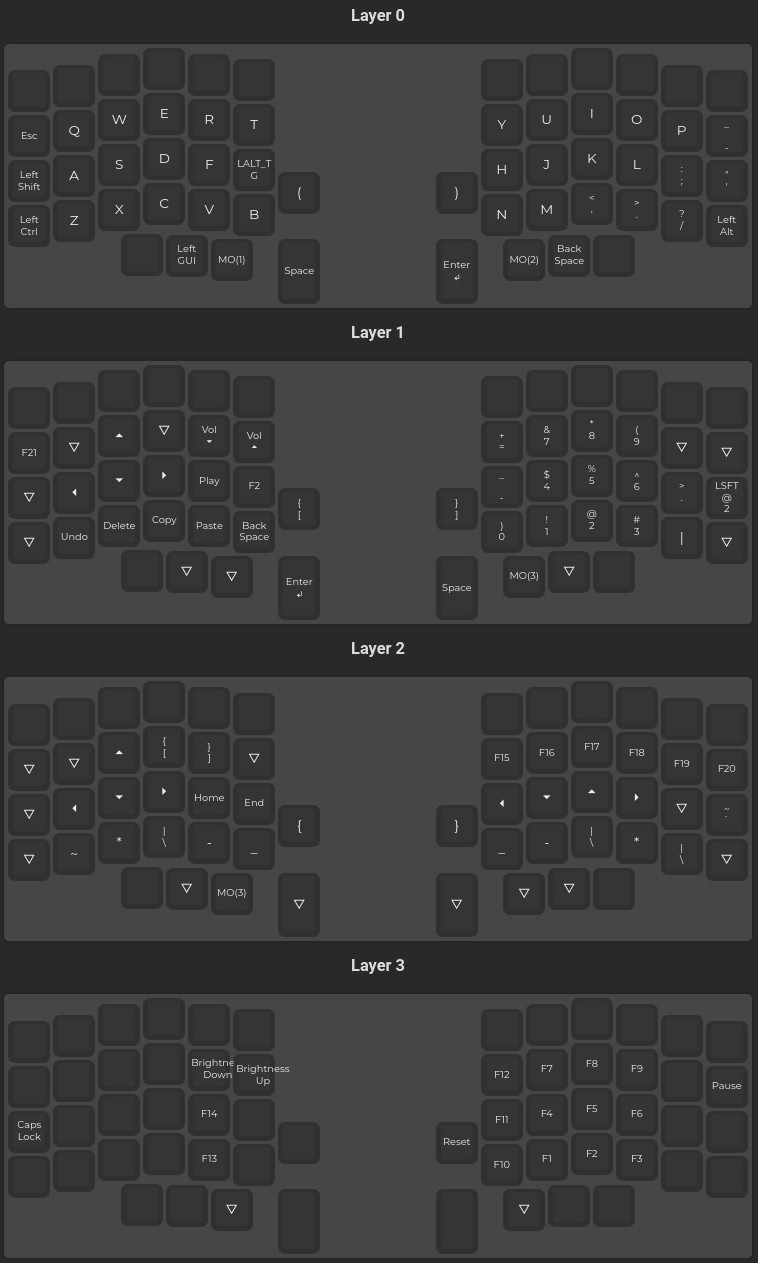
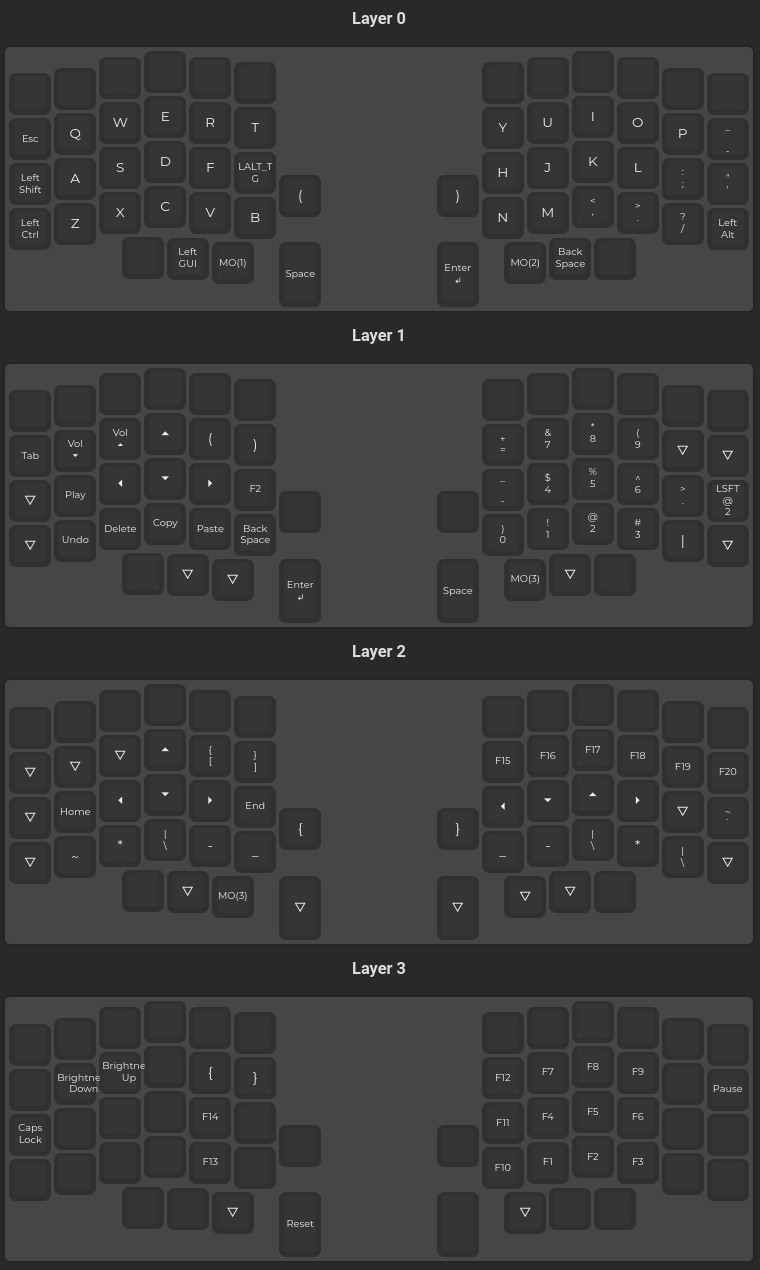
move parentheses, brackets and curly brackets | moved arrow keys

diff --git a/keymap.c b/keymap.c
@@ -16,7 +16,7 @@ const uint16_t PROGMEM keymaps[][MATRIX_ROWS][MATRIX_COLS] = {
  * |ESC   |   Q  |   W  |   E  |   R  |   T  |                    |   Y  |   U  |   I  |   O  |   P  |  -   |
  * |------+------+------+------+------+------|                    |------+------+------+------+------+------|
  * |LShift|   A  |   S  |   D  |   F  |   G  |-------.    ,-------|   H  |   J  |   K  |   L  |   ;  |  '   |
- * |------+------+------+------+------+------|   (   |    |    )  |------+------+------+------+------+------|
+ * |------+------+------+------+------+------|       |    |       |------+------+------+------+------+------|
  * |LCTL  |   Z  |   X  |   C  |   V  |   B  |-------|    |-------|   N  |   M  |   ,  |   .  |   /  | Alt  |
  * `-----------------------------------------/       /     \      \-----------------------------------------'
  *                   |      | LGUI |LOWER | /Space  /       \Enter \  |RAISE |BackSP|      |
@@ -25,20 +25,20 @@ const uint16_t PROGMEM keymaps[][MATRIX_ROWS][MATRIX_COLS] = {
  */
 
  [_QWERTY] = LAYOUT(
-  _______, _______, _______, _______, _______,  _______,                           _______, _______, _______, _______, _______, _______,
+  XXXXXXX, XXXXXXX, XXXXXXX, XXXXXXX, XXXXXXX,      XXXXXXX,                       XXXXXXX, XXXXXXX, XXXXXXX, XXXXXXX, XXXXXXX, XXXXXXX,
   KC_ESC,     KC_Q,    KC_W,    KC_E,    KC_R,         KC_T,                          KC_Y,    KC_U,    KC_I,    KC_O,    KC_P, KC_MINS,
   KC_LSFT,    KC_A,    KC_S,    KC_D,    KC_F, LALT_T(KC_G),                          KC_H,    KC_J,    KC_K,    KC_L, KC_SCLN, KC_QUOT,
-  KC_LCTL,    KC_Z,    KC_X,    KC_C,    KC_V,         KC_B, KC_LPRN,     KC_RPRN,    KC_N,    KC_M, KC_COMM,  KC_DOT, KC_SLSH, KC_LALT,
-                            _______,  KC_LGUI,       MO(_L),  KC_SPC,      KC_ENT,  MO(_R), KC_BSPC, _______ 
+  KC_LCTL,    KC_Z,    KC_X,    KC_C,    KC_V,         KC_B, XXXXXXX,     XXXXXXX,    KC_N,    KC_M, KC_COMM,  KC_DOT, KC_SLSH, KC_LALT,
+                             XXXXXXX,  KC_LGUI,       MO(_L),  KC_SPC,      KC_ENT,  MO(_R), KC_BSPC, XXXXXXX 
 ),
 
 /* _L | lower
  * ,-----------------------------------------.                    ,-----------------------------------------.
  * |      |      |      |      |      |      |                    |      |      |      |      |      |      |
  * |------+------+------+------+------+------|                    |------+------+------+------+------+------|
- * | Tab  |      |  UP  |      | vol- | vol+ |                    |  +=  |  6   |  8   |  9   |      |      |
+ * | Tab  | vol- | vol+ |  up  |  (   |  )   |                    |  +=  |  6   |  8   |  9   |      |      |
  * |------+------+------+------+------+------|                    |------+------+------+------+------+------|
- * |      | left | down | right| play | F2   |-------.    ,-------|   -  |  4   |  5   |  6   |  .   |  "   |
+ * |      | play | left | down | right| F2   |-------.    ,-------|   -  |  4   |  5   |  6   |  .   |  "   |
  * |------+------+------+------+------+------|   [   |    |    ]  |------+------+------+------+------+------|
  * |      | undo | del  | copy | paste| bksp |-------|    |-------|   0  |  1   |  2   |  3   | pipe |      |
  * `-----------------------------------------/       /     \      \-----------------------------------------'
@@ -49,20 +49,20 @@ const uint16_t PROGMEM keymaps[][MATRIX_ROWS][MATRIX_COLS] = {
  */
 
 [_L] = LAYOUT(
-  _______, _______, _______, _______, _______, _______,                       _______, _______, _______, _______, _______,    _______,
-   KC_TAB, _______,   KC_UP, _______, KC_VOLD, KC_VOLU,                        KC_EQL,    KC_7,    KC_8,    KC_9, _______,    _______,
-  _______, KC_LEFT, KC_DOWN, KC_RGHT, KC_MPLY,   KC_F2,                       KC_MINS,    KC_4,    KC_5,    KC_6,  KC_DOT, LSFT(KC_2),
-  _______, KC_UNDO,  KC_DEL, KC_COPY, KC_PSTE, KC_BSPC, KC_LBRC,    KC_RBRC, KC_0    ,    KC_1,    KC_2,    KC_3, KC_PIPE,    _______, 
-                             _______, _______, _______,  KC_ENT,     KC_SPC,  _______, _______, _______ 
+  XXXXXXX, XXXXXXX, XXXXXXX, XXXXXXX, XXXXXXX, XXXXXXX,                       XXXXXXX, XXXXXXX, XXXXXXX, XXXXXXX, XXXXXXX,    XXXXXXX,
+   KC_TAB, KC_VOLD, KC_VOLU,   KC_UP, KC_LPRN, KC_RPRN,                        KC_EQL,    KC_7,    KC_8,    KC_9, _______,    _______,
+  _______, KC_MPLY, KC_LEFT, KC_DOWN, KC_RGHT,   KC_F2,                       KC_MINS,    KC_4,    KC_5,    KC_6,  KC_DOT, LSFT(KC_2),
+  _______, KC_UNDO,  KC_DEL, KC_COPY, KC_PSTE, KC_BSPC, XXXXXXX,     XXXXXXX,    KC_0,    KC_1,    KC_2,    KC_3, KC_PIPE,    _______, 
+                             XXXXXXX, _______, _______,  KC_ENT,      KC_SPC, _______, _______, XXXXXXX 
 ),
 
 /* _R | raise
  * ,-----------------------------------------.                    ,-----------------------------------------.
  * |      |      |      |      |      |      |                    |      |      |      |      |      |      |
  * |------+------+------+------+------+------|                    |------+------+------+------+------+------|
- * |      |      |  up  | [ {  | ] }  |      |                    |  F15 | F16  | F17  | F18  | F19  | F20  |
+ * |      |      |      | up   |  [   |  ]   |                    |  F15 | F16  | F17  | F18  | F19  | F20  |
  * |------+------+------+------+------+------|                    |------+------+------+------+------+------|
- * |      | left | down | right| home | end  |-------.    ,-------| left | down |  up  | right|      | grave|
+ * |      | home | left | down | right| end  |-------.    ,-------| left | down |  up  | right|      | grave|
  * |------+------+------+------+------+------|   {   |    |    }  |------+------+------+------+------+------|
  * |      |  ~   |  *   |  #   |  -   |  _   |-------|    |-------|   _  |   -  |  #   |  *   |  \   |      |    
  * `-----------------------------------------/       /     \      \-----------------------------------------'
@@ -74,24 +74,24 @@ const uint16_t PROGMEM keymaps[][MATRIX_ROWS][MATRIX_COLS] = {
  */
 
 [_R] = LAYOUT(
-  _______, _______, _______, _______, _______, _______,                       _______, _______, _______, _______, _______, _______,
-  _______, _______,   KC_UP, KC_LBRC, KC_RBRC, _______,                        KC_F15,  KC_F16,  KC_F17,  KC_F18,  KC_F19,  KC_F20,
-  _______, KC_LEFT, KC_DOWN, KC_RGHT, KC_HOME, KC_END ,                       KC_LEFT, KC_DOWN,   KC_UP, KC_RGHT, _______,  KC_GRV,
-  _______, KC_TILD, KC_ASTR, KC_NUBS, KC_PMNS, KC_UNDS, KC_LCBR,     KC_RCBR, KC_UNDS, KC_PMNS, KC_NUBS, KC_ASTR, KC_BSLS, _______,
-                             _______, _______, _______, _______,     _______, _______, _______, _______
+  XXXXXXX, XXXXXXX, XXXXXXX, XXXXXXX, XXXXXXX, XXXXXXX,                       XXXXXXX, XXXXXXX, XXXXXXX, XXXXXXX, XXXXXXX, XXXXXXX,
+  _______, _______, _______,   KC_UP, KC_LBRC, KC_RBRC,                        KC_F15,  KC_F16,  KC_F17,  KC_F18,  KC_F19,  KC_F20,
+  _______, KC_HOME, KC_LEFT, KC_DOWN, KC_RGHT, KC_END ,                       KC_LEFT, KC_DOWN,   KC_UP, KC_RGHT, _______,  KC_GRV,
+  _______, KC_TILD, KC_ASTR, KC_NUBS, KC_PMNS, KC_UNDS, XXXXXXX,     XXXXXXX, KC_UNDS, KC_PMNS, KC_NUBS, KC_ASTR, KC_BSLS, _______,
+                             XXXXXXX, _______, _______, _______,     _______, _______, _______, XXXXXXX 
 ),
 
 /* _S | system
  * ,-----------------------------------------.                    ,-----------------------------------------.
  * |      |      |      |      |      |      |                    |      |      |      |      |      |      |
  * |------+------+------+------+------+------|                    |------+------+------+------+------+------|
- * |      |      |      |      | BR - | BR + |                    | F12  | F7   | F8   | F9   |      | PAUS |
+ * |      | BR-  | BR+  |      |  {   |  }   |                    |  F12 |  F7  |  F8  |  F9  |      | PAUS |
  * |------+------+------+------+------+------|                    |------+------+------+------+------+------|
- * | caps |      |      |      | F14  |      |-------.    ,-------| F11  | F4   | F5   | F6   |      |      |
- * |------+------+------+------+------+------|       |    | BOOT  |------+------+------+------+------+------|
- * |      |      |      |      | F13  |      |-------|    |-------| F10  | F1   | F2   | F3   |      |      |
+ * | caps |      |      |      | F14  |      |-------.    ,-------|  F11 |  F4  |  F5  |  F6  |      |      |
+ * |------+------+------+------+------+------|       |    |       |------+------+------+------+------+------|
+ * |      |      |      |      | F13  |      |-------|    |-------|  F10 |  F1  |  F2  |  F3  |      |      |
  * `-----------------------------------------/       /     \      \-----------------------------------------'
- *                   |      | LGUI |LOWER | /Space  /       \Enter \  |RAISE |BackSP|      |
+ *                   |      |      |      | / BOOT  /       \      \  |      |      |      |
  *                   |      |      |      |/       /         \      \ |      |      |      |
  *                   `----------------------------'           '------''--------------------'
  *
@@ -103,10 +103,10 @@ const uint16_t PROGMEM keymaps[][MATRIX_ROWS][MATRIX_COLS] = {
 
   [_S] = LAYOUT(
   XXXXXXX, XXXXXXX, XXXXXXX, XXXXXXX, XXXXXXX, XXXXXXX,                       XXXXXXX, XXXXXXX, XXXXXXX, XXXXXXX, XXXXXXX, XXXXXXX,
-  XXXXXXX, XXXXXXX, XXXXXXX, XXXXXXX, KC_BRID, KC_BRIU,                        KC_F12,   KC_F7,   KC_F8,   KC_F9, XXXXXXX, KC_PAUS,
+  XXXXXXX, KC_BRID, KC_BRIU, XXXXXXX, KC_LCBR, KC_RCBR,                        KC_F12,   KC_F7,   KC_F8,   KC_F9, XXXXXXX, KC_PAUS,
   KC_CAPS, XXXXXXX, XXXXXXX, XXXXXXX,  KC_F14, _______,                        KC_F11,   KC_F4,   KC_F5,   KC_F6, XXXXXXX, XXXXXXX,
-  XXXXXXX, XXXXXXX, XXXXXXX, XXXXXXX,  KC_F13, XXXXXXX, XXXXXXX,     QK_BOOT,  KC_F10,   KC_F1,   KC_F2,   KC_F3, XXXXXXX, XXXXXXX,
-                             _______, _______, _______, _______,     _______,  _______, _______, _______
+  XXXXXXX, XXXXXXX, XXXXXXX, XXXXXXX,  KC_F13, XXXXXXX, XXXXXXX,     XXXXXXX,  KC_F10,   KC_F1,   KC_F2,   KC_F3, XXXXXXX, XXXXXXX,
+                             XXXXXXX, _______, _______, QK_BOOT,     _______, _______, _______, XXXXXXX 
   )
 };
 
